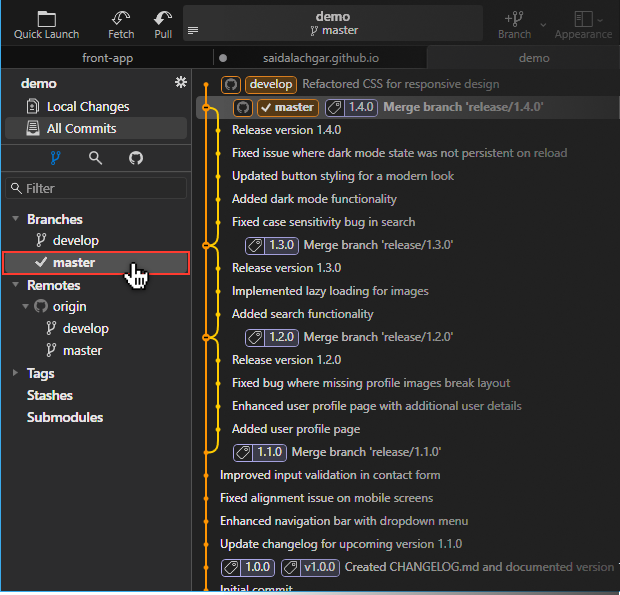
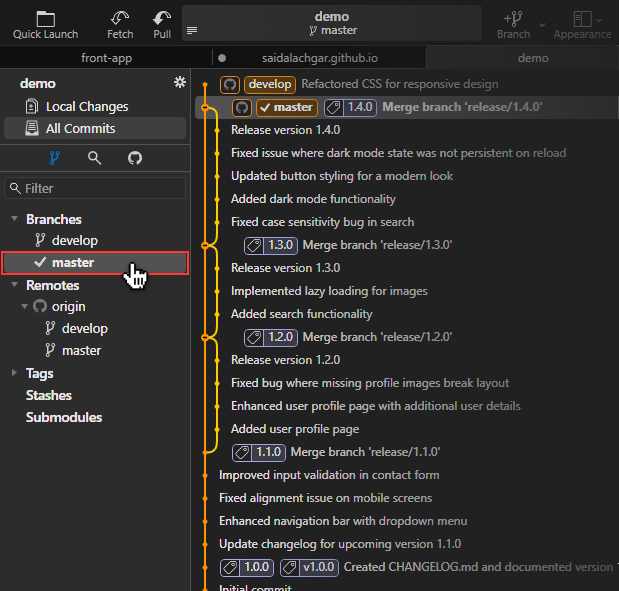
blog content

diff --git a/todo.md b/todo.md
@@ -6,15 +6,13 @@
 - [-] home playground mobile is broken
 - [-] blog content
 
-  - [-] The power of css variables for theming
+  - [-] 👉 The power of css variables for theming
     - [-] seo meta
     - [-] audio
   - [-] deploy your personal portfolio with a custom domain on github
     - [-] seo meta
     - [-] audio
   - [-] how to debug JavaScript events like `mouseover` and `mouseout`
-    - [-] generate content
-    - [-] insert & review content
     - [-] make media
     - [-] insert media
     - [-] seo meta
@@ -24,7 +22,7 @@
     - [-] insert media
     - [-] seo meta
     - [-] audio
-  - [-] 👉 how to handle a hotfix using git fork
+  - [-] how to handle a hotfix using git fork
     - [-] seo meta
     - [-] audio
   - [-] how to target specific cells in css grid tip
